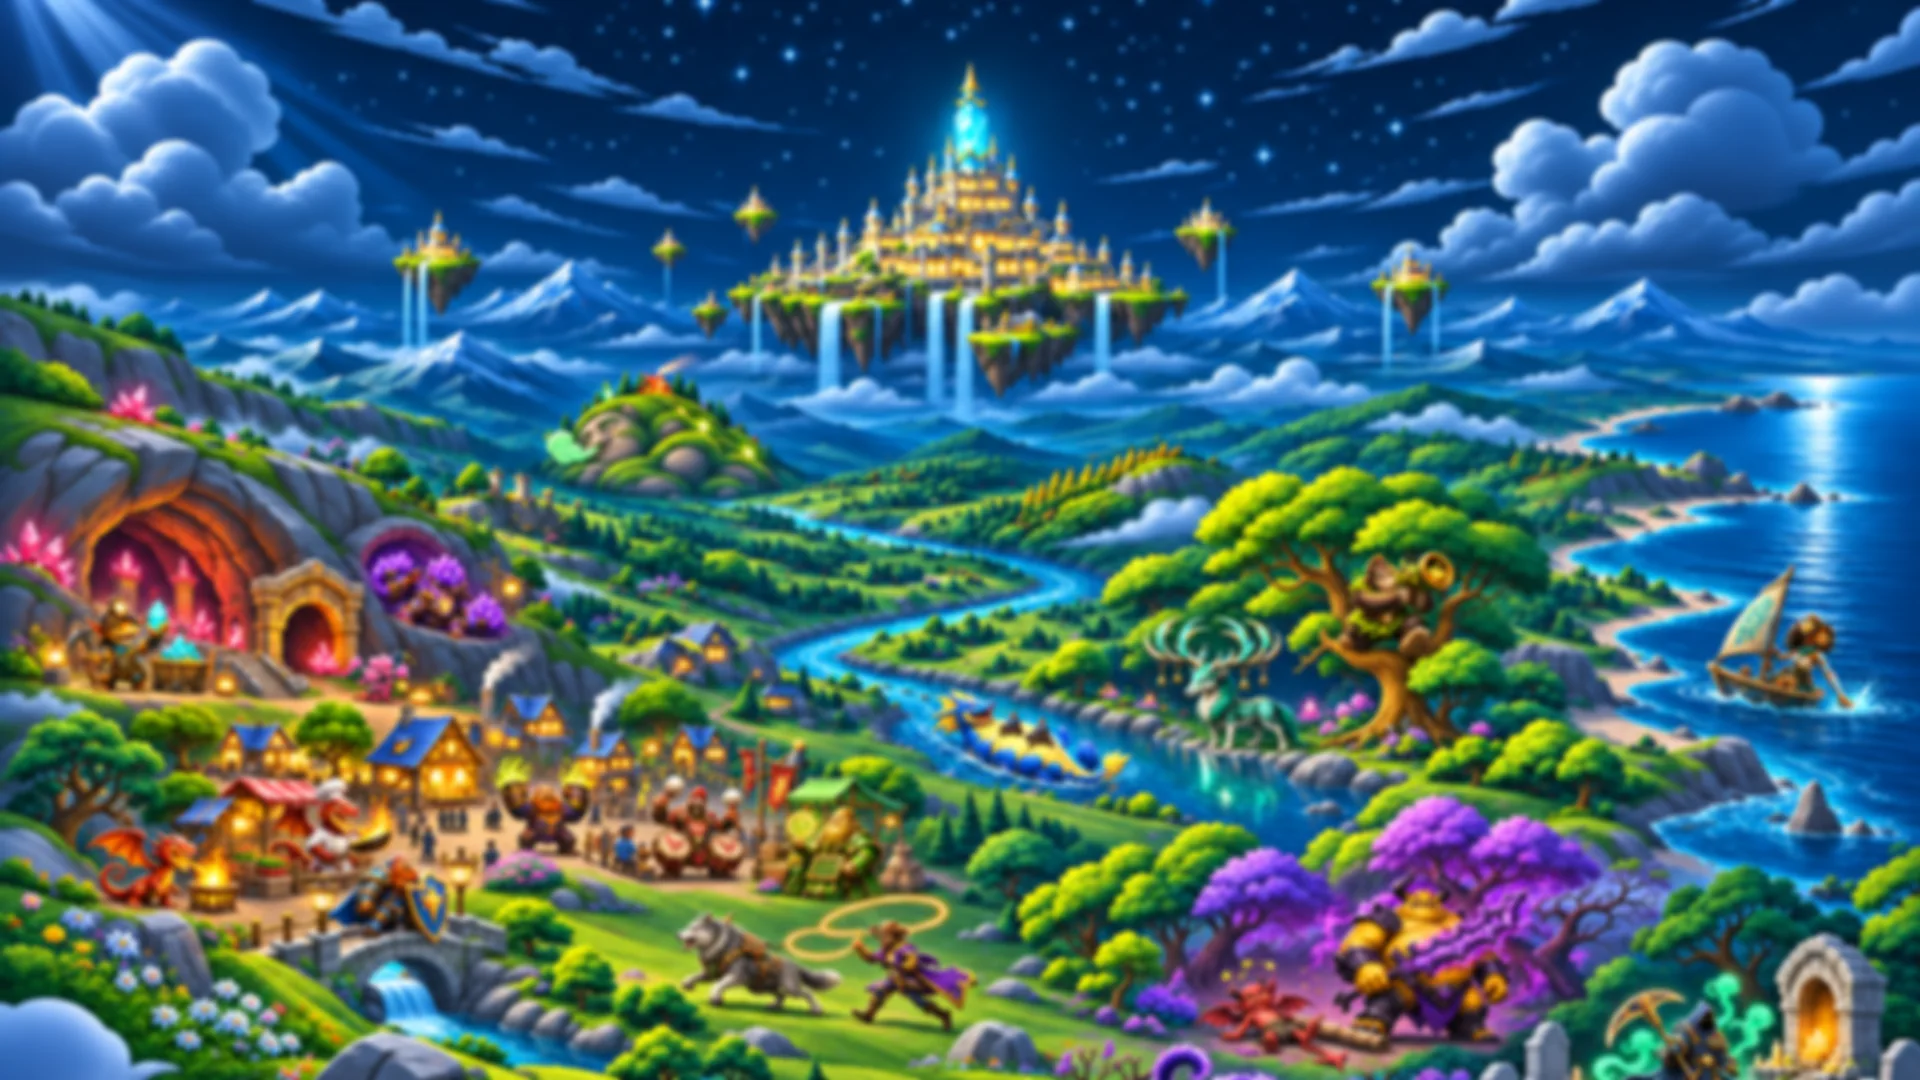
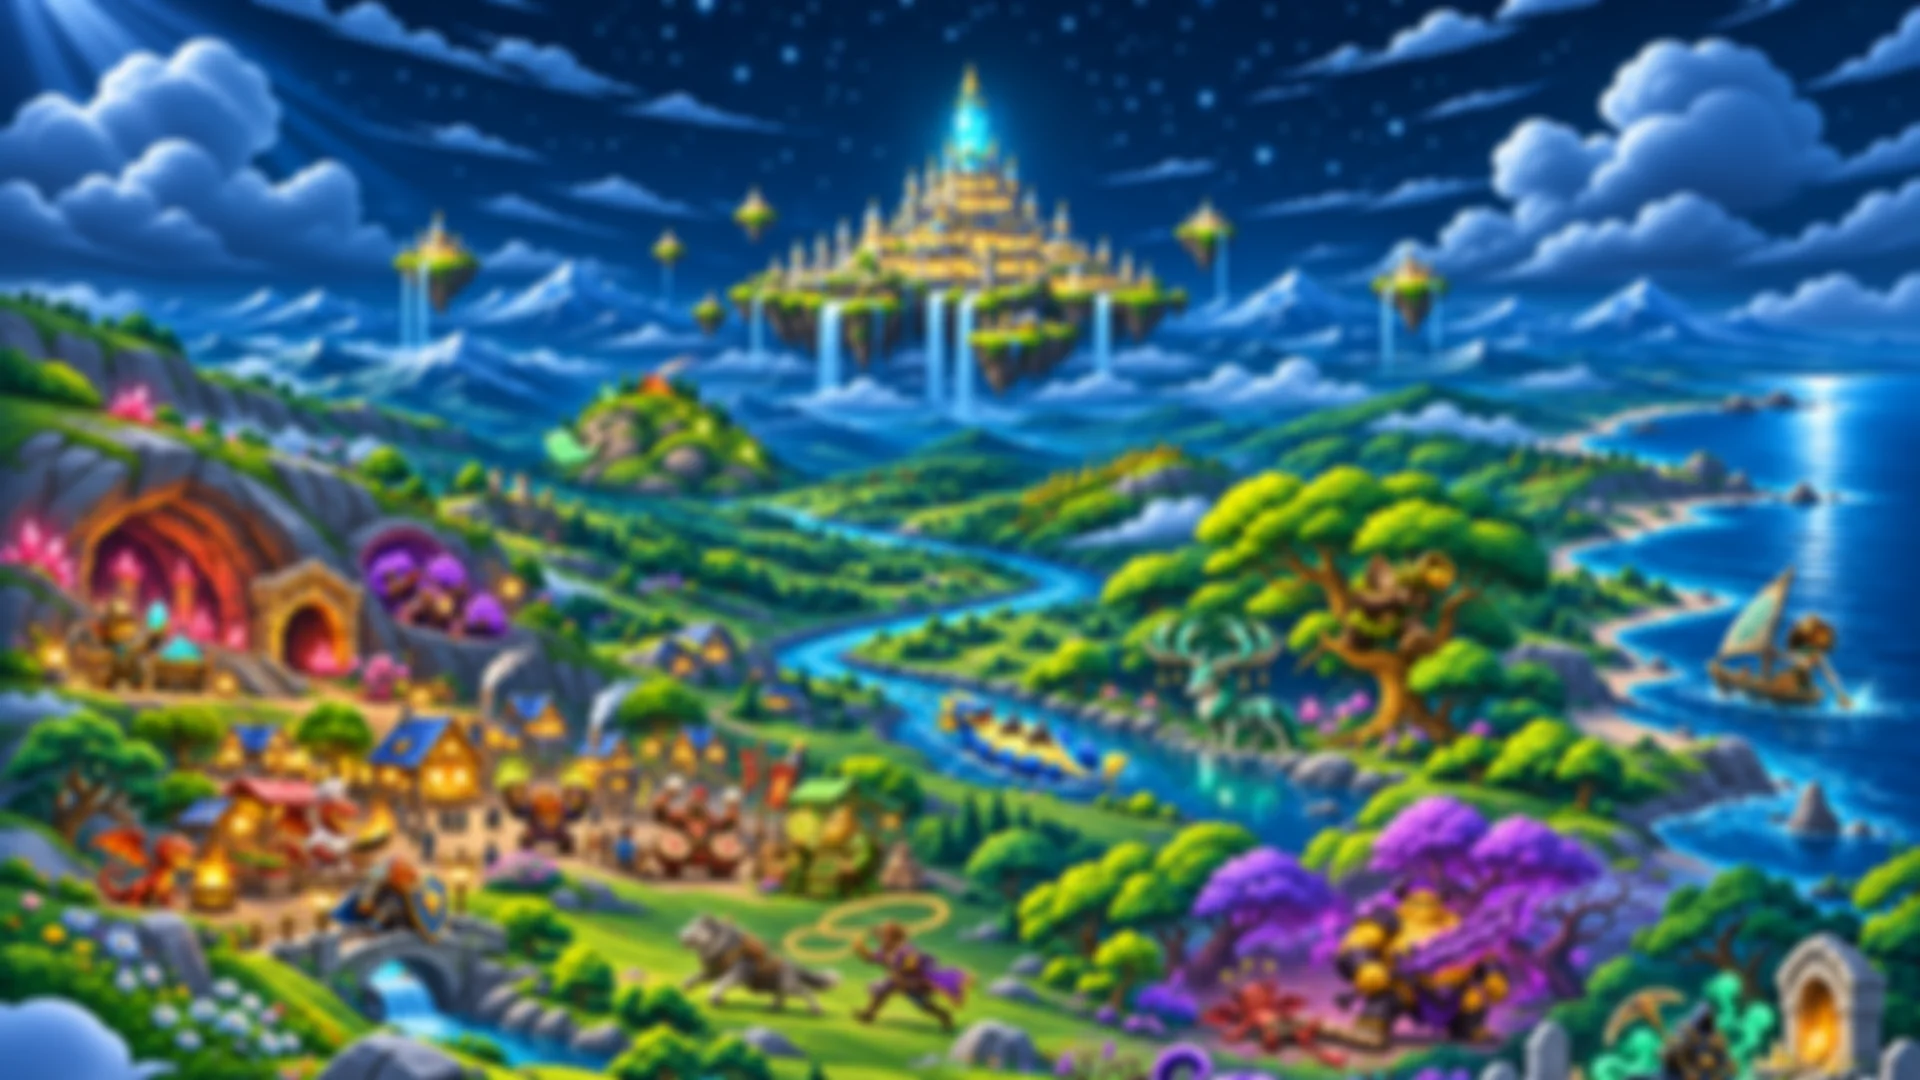
feat(ui): main menu art blurred a little more (5px, was 3px)
Owner 2026-11-23: "blur at 5, darkening reverted to what it originally was". Only the baked
blur changes; the veil is unchanged from main.

diff --git a/packages/ui/src/partyHome/shell/PhBackdrop.tsx b/packages/ui/src/partyHome/shell/PhBackdrop.tsx
@@ -1,6 +1,6 @@
 /**
  * THE SHELL's ONE STEADY BACKDROP (owner 2026-11-04: "it'll flash the old background and it's very jarring and gross", then
- * "i think i like the citadel backdrop more"; 2026-11-22: replaced by the world map painting, a light 3px blur baked in at build
+ * "i think i like the citadel backdrop more"; 2026-11-22: replaced by the world map painting, a 5px blur baked in at build
  * time, no runtime filter). `Game` mounts it ONCE, under everything, for as long as the menus are up: pages and the party home are transparent
  * over it and never bring their own, so moving between them cannot swap or unmount it, and a page that is still loading (or
  * never loads) shows this and nothing else. Eager and styled inline: it must paint before any lazy chunk or its stylesheet.
